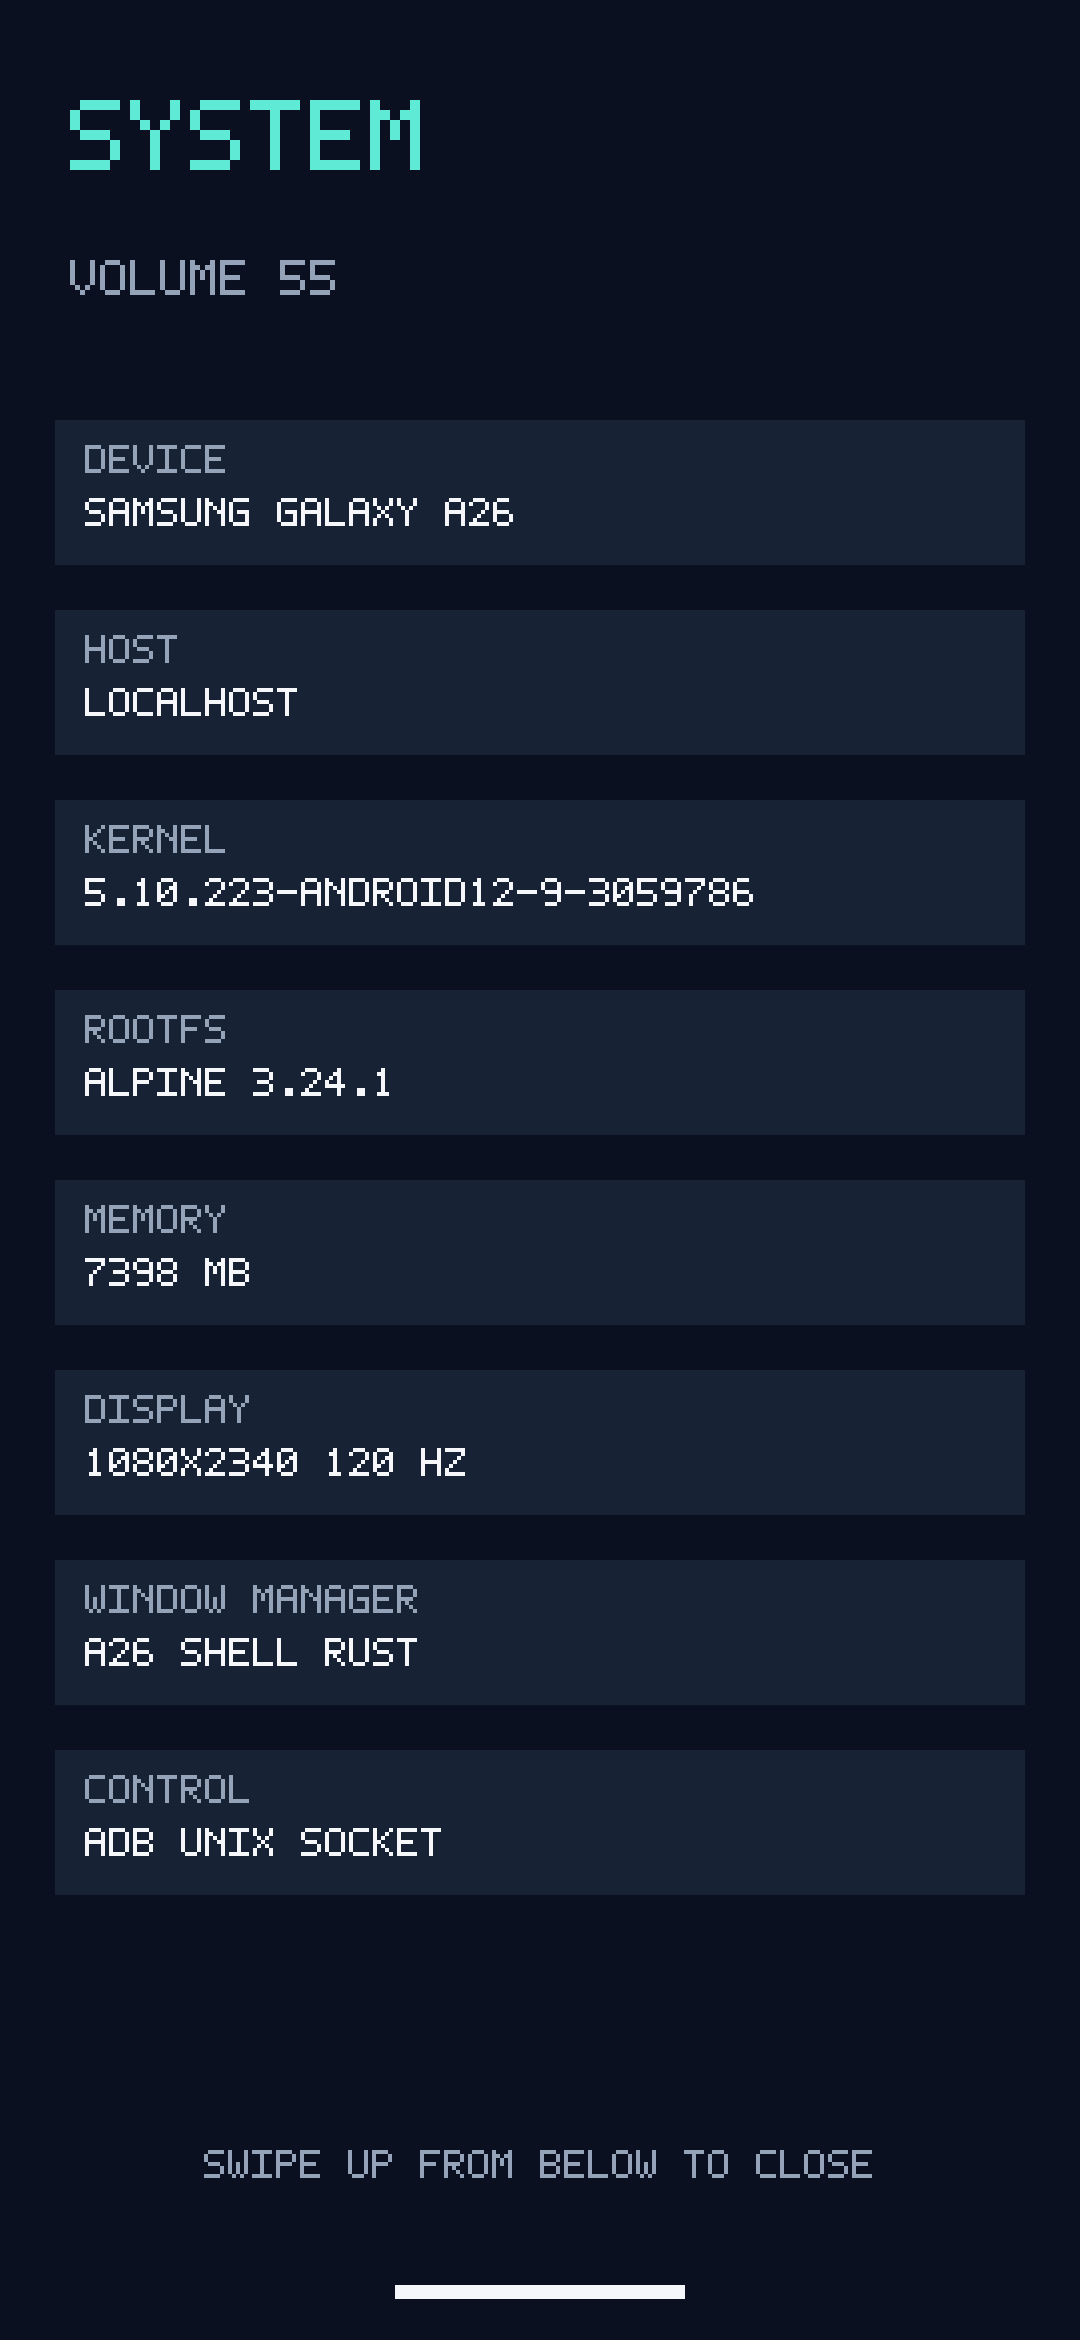
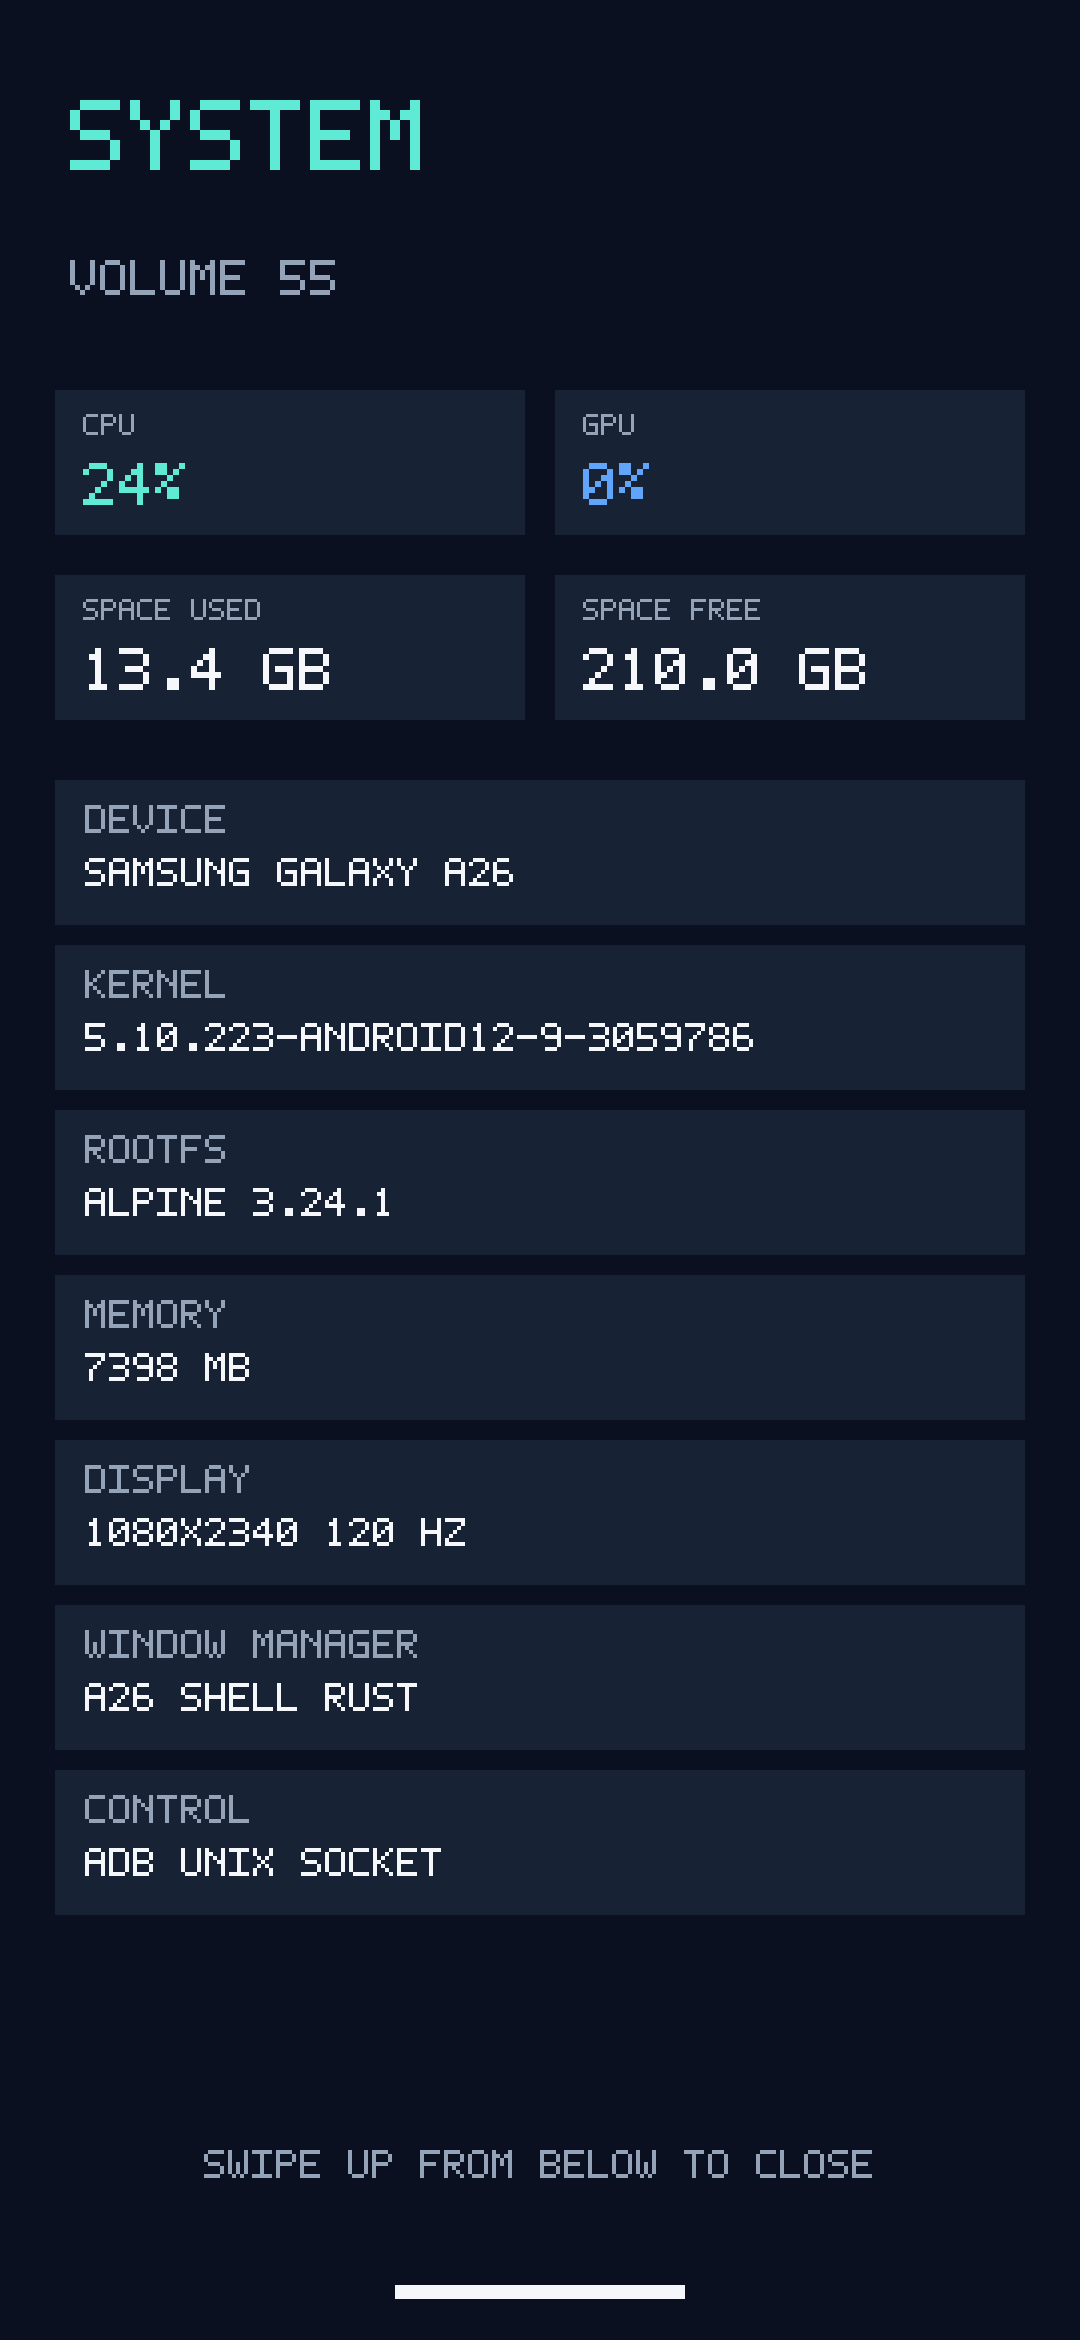
Add live system resource metrics

diff --git a/src/a26-shell/src/ui.rs b/src/a26-shell/src/ui.rs
@@ -1,5 +1,7 @@
 use std::error::Error;
+use std::ffi::CString;
 use std::fs;
+use std::mem::MaybeUninit;
 use std::time::Instant;
 
 use x11rb::connection::Connection;
@@ -20,19 +22,28 @@ const DANGER: u32 = 0xfb7185;
 const SYSTEM_ICON_SIZE: u16 = 220;
 const SYSTEM_ICON: &[u8] = include_bytes!("../assets/system-app.bgrx");
 
+#[derive(Debug, Clone, Copy)]
+struct CpuTimes {
+    total: u64,
+    idle: u64,
+}
+
 #[derive(Debug, Clone)]
 pub struct SystemInfo {
     pub kernel: String,
     pub alpine: String,
     pub memory: String,
-    pub hostname: String,
+    pub cpu_usage: Option<u8>,
+    pub gpu_usage: Option<u8>,
+    pub storage_used: String,
+    pub storage_remaining: String,
+    previous_cpu: Option<CpuTimes>,
 }
 
 impl SystemInfo {
     pub fn collect() -> Self {
         let kernel = read_trimmed("/proc/sys/kernel/osrelease").unwrap_or_else(|| "UNKNOWN".into());
         let alpine = read_trimmed("/etc/alpine-release").unwrap_or_else(|| "UNKNOWN".into());
-        let hostname = read_trimmed("/proc/sys/kernel/hostname").unwrap_or_else(|| "A26".into());
         let memory = fs::read_to_string("/proc/meminfo")
             .ok()
             .and_then(|text| {
@@ -43,17 +54,102 @@ impl SystemInfo {
                 })
             })
             .unwrap_or_else(|| "UNKNOWN".into());
-        Self {
+        let (storage_used, storage_remaining) = storage_usage("/")
+            .map(|(used, remaining)| (format_bytes(used), format_bytes(remaining)))
+            .unwrap_or_else(|| ("UNKNOWN".into(), "UNKNOWN".into()));
+        let mut result = Self {
             kernel,
             alpine,
             memory,
-            hostname,
+            cpu_usage: None,
+            gpu_usage: read_gpu_usage(),
+            storage_used,
+            storage_remaining,
+            previous_cpu: None,
+        };
+        result.refresh();
+        result
+    }
+
+    pub fn refresh(&mut self) {
+        if let Some(current) = read_cpu_times() {
+            if let Some(previous) = self.previous_cpu {
+                self.cpu_usage = cpu_usage(previous, current);
+            }
+            self.previous_cpu = Some(current);
+        }
+        self.gpu_usage = read_gpu_usage();
+        if let Some((used, remaining)) = storage_usage("/") {
+            self.storage_used = format_bytes(used);
+            self.storage_remaining = format_bytes(remaining);
         }
     }
 }
 
 fn read_trimmed(path: &str) -> Option<String> {
     Some(fs::read_to_string(path).ok()?.trim().to_string())
+}
+
+fn read_cpu_times() -> Option<CpuTimes> {
+    let stat = fs::read_to_string("/proc/stat").ok()?;
+    let mut fields = stat.lines().next()?.split_whitespace();
+    if fields.next()? != "cpu" {
+        return None;
+    }
+    let values: Vec<u64> = fields.map(str::parse).collect::<Result<_, _>>().ok()?;
+    if values.len() < 5 {
+        return None;
+    }
+    Some(CpuTimes {
+        total: values.iter().copied().sum(),
+        idle: values[3].saturating_add(values[4]),
+    })
+}
+
+fn cpu_usage(previous: CpuTimes, current: CpuTimes) -> Option<u8> {
+    let total = current.total.saturating_sub(previous.total);
+    if total == 0 {
+        return None;
+    }
+    let idle = current.idle.saturating_sub(previous.idle).min(total);
+    let busy = total - idle;
+    Some(((busy.saturating_mul(100) + total / 2) / total).min(100) as u8)
+}
+
+fn read_gpu_usage() -> Option<u8> {
+    read_trimmed("/sys/class/misc/mali0/device/utilization")?
+        .split_whitespace()
+        .next()?
+        .parse::<u16>()
+        .ok()
+        .map(|value| value.min(100) as u8)
+}
+
+fn storage_usage(path: &str) -> Option<(u64, u64)> {
+    let path = CString::new(path).ok()?;
+    let mut stats = MaybeUninit::<libc::statvfs>::uninit();
+    // SAFETY: `path` is a live NUL-terminated C string and `stats` points to
+    // writable storage for one `statvfs` result. The result is read only when
+    // libc reports success.
+    if unsafe { libc::statvfs(path.as_ptr(), stats.as_mut_ptr()) } != 0 {
+        return None;
+    }
+    // SAFETY: the successful libc call above initialized the complete struct.
+    let stats = unsafe { stats.assume_init() };
+    let block_size = stats.f_frsize.max(1);
+    let total = stats.f_blocks.saturating_mul(block_size);
+    let free = stats.f_bfree.saturating_mul(block_size);
+    let remaining = stats.f_bavail.saturating_mul(block_size);
+    Some((total.saturating_sub(free), remaining))
+}
+
+fn format_bytes(bytes: u64) -> String {
+    const GIB: f64 = 1024.0 * 1024.0 * 1024.0;
+    format!("{:.1} GB", bytes as f64 / GIB)
+}
+
+fn usage_text(usage: Option<u8>) -> String {
+    usage.map_or_else(|| "--%".into(), |value| format!("{value}%"))
 }
 
 pub struct Renderer {
@@ -65,6 +161,10 @@ pub struct Renderer {
 }
 
 impl Renderer {
+    pub fn refresh_system(&mut self) {
+        self.system.refresh();
+    }
+
     pub fn render<C: Connection>(
         &self,
         conn: &C,
@@ -210,26 +310,62 @@ impl Renderer {
     ) -> Result<(), Box<dyn Error>> {
         self.text(conn, "SYSTEM", 70, 100, 10, ACCENT)?;
         self.text(conn, &format!("VOLUME {}", state.volume), 70, 260, 5, MUTED)?;
-        self.card_line(conn, 420, "DEVICE", "SAMSUNG GALAXY A26")?;
-        self.card_line(conn, 610, "HOST", &self.system.hostname)?;
-        self.card_line(conn, 800, "KERNEL", &self.system.kernel)?;
+        let cpu = usage_text(self.system.cpu_usage);
+        let gpu = usage_text(self.system.gpu_usage);
+        self.metric_card(conn, (55, 390), "CPU", &cpu, ACCENT)?;
+        self.metric_card(conn, (555, 390), "GPU", &gpu, ACCENT_2)?;
+        self.metric_card(conn, (55, 575), "SPACE USED", &self.system.storage_used, FG)?;
+        self.metric_card(
+            conn,
+            (555, 575),
+            "SPACE FREE",
+            &self.system.storage_remaining,
+            FG,
+        )?;
+        self.card_line(conn, 780, "DEVICE", "SAMSUNG GALAXY A26")?;
+        self.card_line(conn, 945, "KERNEL", &self.system.kernel)?;
         self.card_line(
             conn,
-            990,
+            1110,
             "ROOTFS",
             &format!("ALPINE {}", self.system.alpine),
         )?;
-        self.card_line(conn, 1180, "MEMORY", &self.system.memory)?;
+        self.card_line(conn, 1275, "MEMORY", &self.system.memory)?;
         self.card_line(
             conn,
-            1370,
+            1440,
             "DISPLAY",
             &format!("{}X{} 120 HZ", self.width, self.height),
         )?;
-        self.card_line(conn, 1560, "WINDOW MANAGER", "A26 SHELL RUST")?;
-        self.card_line(conn, 1750, "CONTROL", "ADB UNIX SOCKET")?;
+        self.card_line(conn, 1605, "WINDOW MANAGER", "A26 SHELL RUST")?;
+        self.card_line(conn, 1770, "CONTROL", "ADB UNIX SOCKET")?;
         self.center_text(conn, "SWIPE UP FROM BELOW TO CLOSE", 2150, 4, MUTED)?;
         self.home_bar(conn)?;
+        Ok(())
+    }
+
+    fn metric_card<C: Connection>(
+        &self,
+        conn: &C,
+        position: (i16, i16),
+        noun: &str,
+        value: &str,
+        color: u32,
+    ) -> Result<(), Box<dyn Error>> {
+        let (x, y) = position;
+        self.fill(
+            conn,
+            BG_CARD,
+            Rectangle {
+                x,
+                y,
+                width: 470,
+                height: 145,
+            },
+        )?;
+        self.text(conn, noun, x + 28, y + 24, 3, MUTED)?;
+        let clipped: String = value.chars().take(12).collect();
+        self.text(conn, &clipped, x + 28, y + 73, 6, color)?;
         Ok(())
     }
 
@@ -479,4 +615,27 @@ fn keypad_center(width: u16, column: u8, row: u8) -> (i16, i16) {
 
 fn inside_button(x: i16, y: i16, cx: i16, cy: i16) -> bool {
     (i32::from(x) - i32::from(cx)).abs() <= 120 && (i32::from(y) - i32::from(cy)).abs() <= 120
+}
+
+#[cfg(test)]
+mod tests {
+    use super::*;
+
+    #[test]
+    fn cpu_usage_uses_busy_delta() {
+        let previous = CpuTimes {
+            total: 1_000,
+            idle: 700,
+        };
+        let current = CpuTimes {
+            total: 1_200,
+            idle: 780,
+        };
+        assert_eq!(cpu_usage(previous, current), Some(60));
+    }
+
+    #[test]
+    fn storage_size_is_human_readable() {
+        assert_eq!(format_bytes(16 * 1024 * 1024 * 1024), "16.0 GB");
+    }
 }

diff --git a/src/a26-shell/src/main.rs b/src/a26-shell/src/main.rs
@@ -135,7 +135,7 @@ fn main() -> Result<(), Box<dyn Error>> {
     }
     conn.flush()?;
 
-    let renderer = Renderer {
+    let mut renderer = Renderer {
         window: shell_window,
         gc,
         width,
@@ -163,6 +163,7 @@ fn main() -> Result<(), Box<dyn Error>> {
     };
     let mut hardware_awake = true;
     let mut raw_touch = RawTouchTracker::default();
+    let mut next_system_refresh = Instant::now();
     renderer.render(&conn, &state)?;
     if let Some(device) = backlight.as_ref() {
         if let Err(error) = device.on() {
@@ -216,6 +217,12 @@ fn main() -> Result<(), Box<dyn Error>> {
         }
 
         state.tick();
+        let now = Instant::now();
+        if state.view == View::System && now >= next_system_refresh {
+            renderer.refresh_system();
+            state.redraw = true;
+            next_system_refresh = now + Duration::from_secs(1);
+        }
         if state.screen_awake != hardware_awake {
             // Draw the safe frame before changing brightness. During wake the
             // lock screen is therefore complete before the panel lights up.

diff --git a/notes/a26-shell/README.md b/notes/a26-shell/README.md
@@ -10,7 +10,8 @@ the Samsung Galaxy A26 (SM-A266M).
 - exact one-physical-pixel app-icon frame;
 - no on-screen lock button—the physical power key locks and blanks the panel;
 - no gesture bar on the launcher;
-- System scene with device and Linux runtime information;
+- System scene with device and Linux runtime information, live CPU/GPU
+  utilization, and used/remaining filesystem space;
 - bottom-edge gesture bar inside System, where swiping up closes the app;
 - volume overlay and root-only ADB/Unix-socket development controls.
 

diff --git a/README.md b/README.md
@@ -22,6 +22,7 @@ root-only Unix-socket control interface for development over ADB.
 - XInput 2.2 raw-touch handling for the A26 touchscreen
 - Salted PIN configuration with constant-time verification
 - Power-button lock and panel-backlight control
+- Live CPU/GPU utilization and used/remaining storage in the System app
 - Generated System app artwork with an exact one-pixel launcher frame
 - Static `aarch64-unknown-linux-musl` deployment binaries
 - Root-only JSON IPC and deterministic ADB test controls

diff --git a/src/a26-shell/README.md b/src/a26-shell/README.md
@@ -12,6 +12,7 @@ Current features:
 - touch-first launcher containing the **System** app;
 - generated System app artwork with a one-pixel launcher frame;
 - built-in System information view;
+- live CPU/GPU utilization and used/remaining filesystem space;
 - bottom-edge swipe-up app close gesture;
 - volume-key handling and volume overlay;
 - physical power-key lock/screen blanking with panel-backlight control;